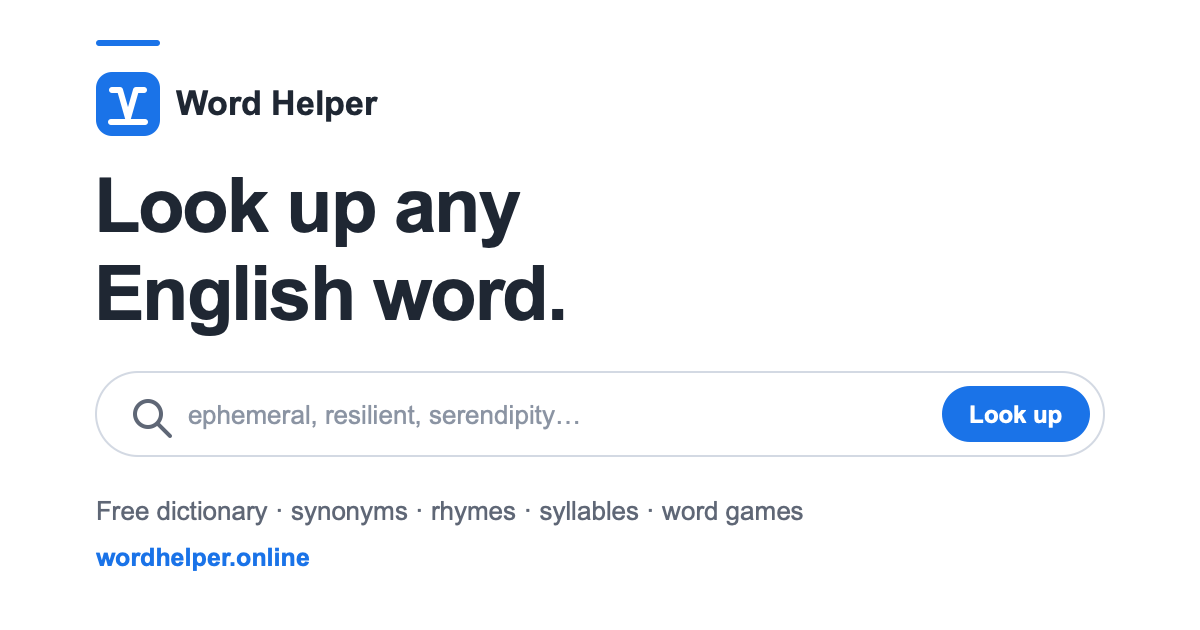
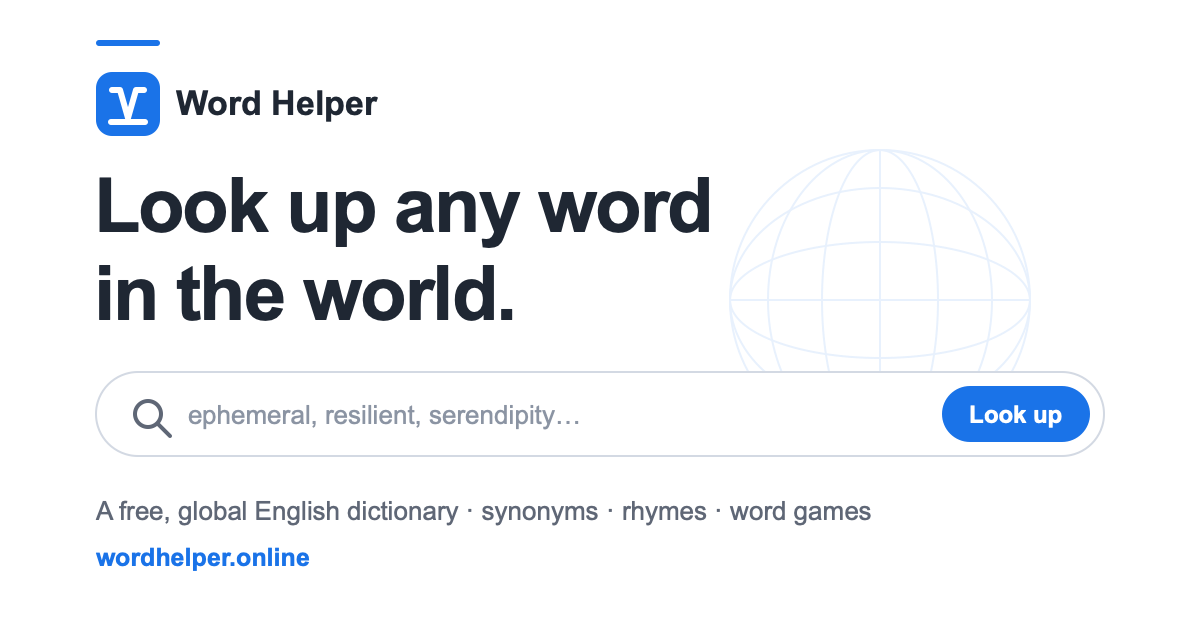
Add global "world dictionary" feel (brand stays Word Helper)
- Hero: globe-icon eyebrow "A free, global English dictionary"; headline
  "Look up any word in the world."; worldly lede; faint world-globe watermark
  behind the search (6% opacity, behind content, aria-hidden).
- Brand descriptor "Word Intelligence" -> "Global English dictionary".
- Footer tagline reframed as a free, global English dictionary toolkit.
- Homepage title/description lead with "Free Global English Dictionary".
- OG image: "Look up any word in the world." + faint globe + global tagline.

Honest global framing only (no fabricated stats). No token/contrast changes;
content/SEO/JSON-LD intact. Build 2,294 pages, 0 broken links.

Changed region(s): [[0.0617, 0.7841, 0.74, 0.8444], [0.0617, 0.4222, 0.4933, 0.5429], [0.4317, 0.2714, 0.6167, 0.3921]]

diff --git a/src/assets/site.css b/src/assets/site.css
@@ -2400,11 +2400,27 @@ input:focus, textarea:focus, select:focus {
 /* ── Hero: search-first, centered (clean global look) ───── */
 .hero-search {
   display: block;
+  position: relative;
   text-align: center;
   padding: 88px 0 60px;
 }
 
-.hero-search .hero-copy { max-width: 760px; margin: 0 auto; }
+/* Faint world-globe watermark behind the search — the "global dictionary" cue */
+.hero-globe {
+  position: absolute;
+  top: 50%;
+  left: 50%;
+  transform: translate(-50%, -48%);
+  width: min(580px, 84vw);
+  aspect-ratio: 1 / 1;
+  color: var(--navy);
+  opacity: 0.06;
+  pointer-events: none;
+  z-index: 0;
+}
+.hero-globe svg { width: 100%; height: 100%; display: block; }
+
+.hero-search .hero-copy { position: relative; z-index: 1; max-width: 760px; margin: 0 auto; }
 .hero-search .hero-eyebrow { margin: 0 auto; }
 
 .hero-search h1 {